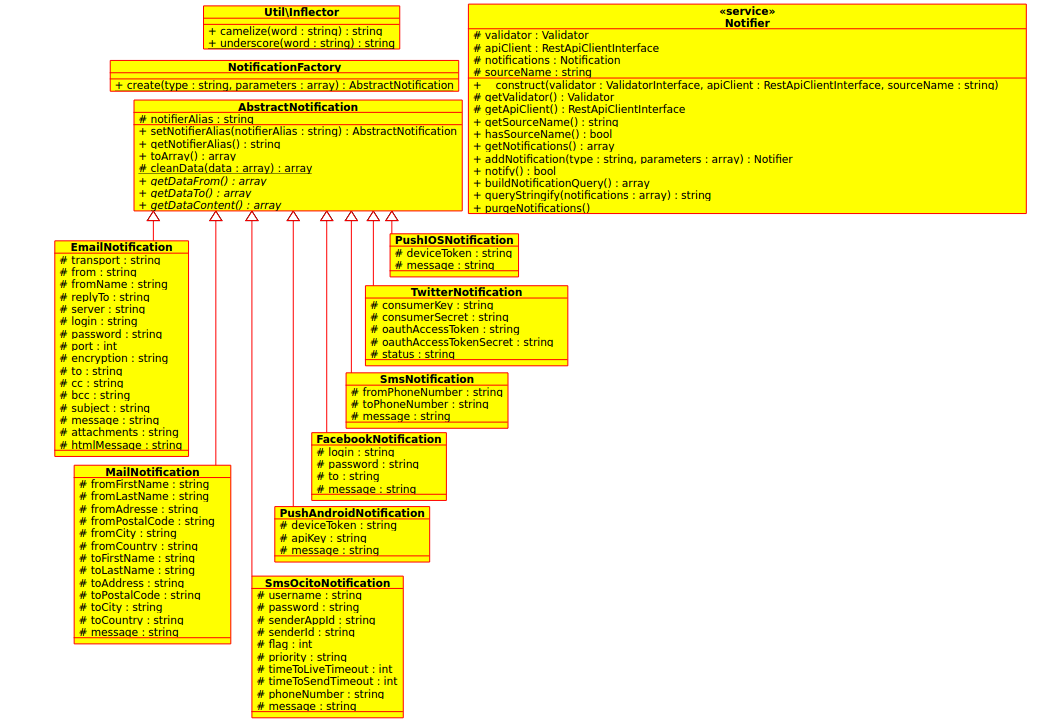
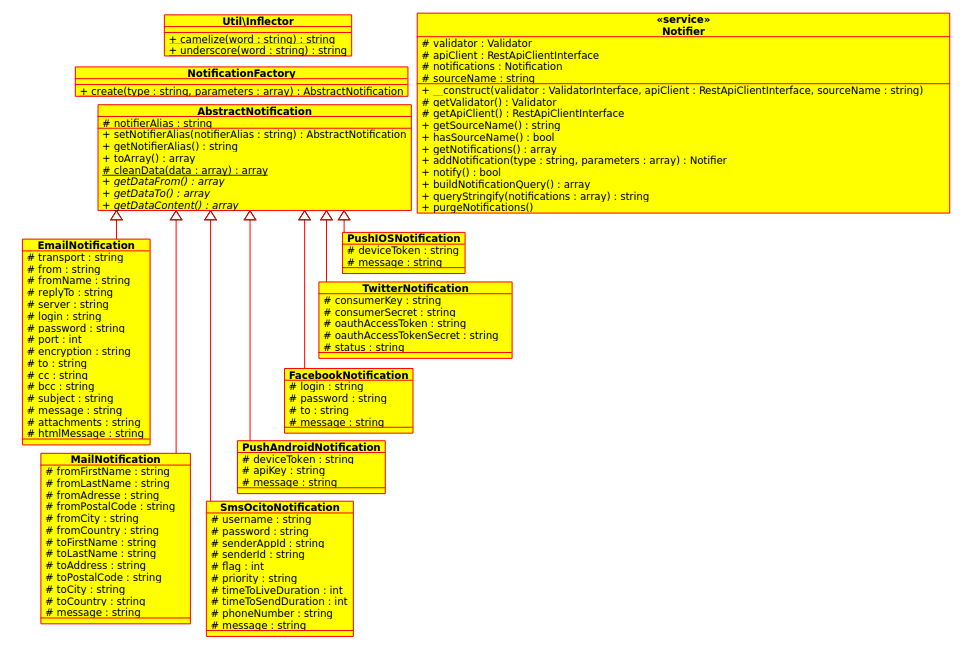
Update documentation

diff --git a/Resources/doc/notification.md b/Resources/doc/notification.md
@@ -99,62 +99,6 @@ $response2 = $this->get('notification_api_client.notifier')
 ;
 ```
 
-### Sms
-
-#### Field "notifierAlias" :
-
-| Optional | Requirements | Description
-|----------|--------------|------------
-| true     | string value | The notifier alias used to define a configuration
-
-#### Field "to" :
-
-| Subfield      | Optional | Requirements | Description
-|---------------|----------|--------------|------------
-| toPhoneNumber | false    | string value | Recipient phone number
-
-#### Field "from" :
-
-| Subfield        | Optional | Requirements | Description
-|-----------------|----------|--------------|------------
-| fromPhoneNumber | true     | string value | Sender phone number
-
-#### Field "content" :
-
-| Subfield    | Optional | Requirements | Description
-|-------------|----------|--------------|------------
-| message     | true     | string value | Message data
-
-#### Results
-The function `notify()` returns a response from an API Client.
-
-| Response values | Meaning
-|-----------------|--------
-| true            | This function return only the value true if the notification has been sent. If not, an Da\ApiClientBundle\Exception\ApiHttpResponseException will be thrown.
-
-#### Case 1 : notification with notifier parameters
-```php
-$response1 = $this->get('notification_api_client.notifier')
-    ->addNotification("sms", array(
-        "toPhoneNumber"   => "0612345678, 0610111213, 0610112214",
-        "fromPhoneNumber" => "0625415878",
-        "message"         => "Notification Message"
-    ))
-    ->notify()
-;
-```
-
-#### Case 2 : notification without notifier parameters
-```php
-$response2 = $this->get('notification_api_client.notifier')
-    ->addNotification("sms", array(
-        "notifierALias" => "my_sms_alias",
-        "toPhoneNumber" => "0612345678, 0610111213, 0610112214",
-        "message"       => "Notification Message"
-    ))
-    ->notify()
-;
-```
 ### Sms Ocito
 
 #### Field "notifierAlias" :
@@ -171,16 +115,16 @@ $response2 = $this->get('notification_api_client.notifier')
 
 #### Field "from" :
 
-| Subfield          | Optional | Requirements  | Description
-|-------------------|----------|---------------|------------
-| userName          | true     | string value  | SMS Manager's account name
-| password          | true     | string value  | SMS Manager's password
-| senderAppId       | true     | string value  | Id of the application used to send SMS
-| senderId          | true     | string value  | Id of the sender
-| flag              | true     | integer value | Flag value
-| priority          | true     | string value  | H : high, L : low
-| timeToLiveTimeout | true     | integer value | Timeout used to define "time to live" of a SMS
-| timeToSendTimeout | true     | integer value | Timeout used to define the moment when the SMS should be sent (deferred message).
+| Subfield           | Optional | Requirements  | Description
+|--------------------|----------|---------------|------------
+| userName           | true     | string value  | SMS Manager's account name
+| password           | true     | string value  | SMS Manager's password
+| senderAppId        | true     | string value  | Id of the application used to send SMS
+| senderId           | true     | string value  | Id of the sender
+| flag               | true     | integer value | Flag value
+| priority           | true     | string value  | H : high, L : low
+| timeToLiveDuration | true     | integer value | Duration used to define "time to live" of a SMS
+| timeToSendDuration | true     | integer value | Duration used to define the moment when the SMS should be sent (deferred message).
 
 Note : How to define the flag
 
@@ -214,26 +158,26 @@ The function `notify()` returns a response from an API Client.
 ```php
 $response1 = $this->get('notification_api_client.notifier')
     ->addNotification("smsOcito", array(
-        "userName"          => "userName_value",
-        "password"          => "password_value",
-        "senderAppId"       => "1234",
-        "senderId"          => "senderId_value",
-        "flag"              => 3,
-        "priority"          => "H",
-        "phoneNumber"       => "33612345678",
-        "message"           => "Notification Message",
-        "timeToLiveTimeout" => 50,
-        "timeToSendTimeout" => 20
+        "userName"           => "userName_value",
+        "password"           => "password_value",
+        "senderAppId"        => "1234",
+        "senderId"           => "senderId_value",
+        "flag"               => 3,
+        "priority"           => "H",
+        "phoneNumber"        => "33612345678",
+        "message"            => "Notification Message",
+        "timeToLiveDuration" => 50,
+        "timeToSendDuration" => 20
     ))
     ->notify()
 ;
 ```
-Note : "timeToLiveTimeout" must be greater than "timeToSendTimeout".
+Note : "timeToLiveDuration" must be greater than "timeToSendDuration".
 
 #### Case 2 : notification without notifier parameters
 ```php
 $response2 = $this->get('notification_api_client.notifier')
-    ->addNotification("sms", array(
+    ->addNotification("smsOcito", array(
         "notifierALias" => "my_sms_ocito_alias",
         "phoneNumber"   => "33612345678",
         "message"       => "Notification Message"
@@ -623,10 +567,17 @@ $response = $this->get('notification_api_client.notifier')
         "htmlMessage"   => "<h1>Titre</h1><p>message</p>",
         "attachments"   => array()
     ))
-    ->addNotification("sms", array(
-        "toPhoneNumber"   => "0612345678, 0610111213, 0610112214",
-        "fromPhoneNumber" => "0625415878",
-        "message"         => "Notification Message"
+    ->addNotification("smsOcito", array(
+        "userName"           => "userName_value",
+        "password"           => "password_value",
+        "senderAppId"        => "1234",
+        "senderId"           => "senderId_value",
+        "flag"               => 3,
+        "priority"           => "H",
+        "phoneNumber"        => "33612345678",
+        "message"            => "Notification Message",
+        "timeToLiveDuration" => 50,
+        "timeToSendDuration" => 20
     ))
     ->notify()
 ;
